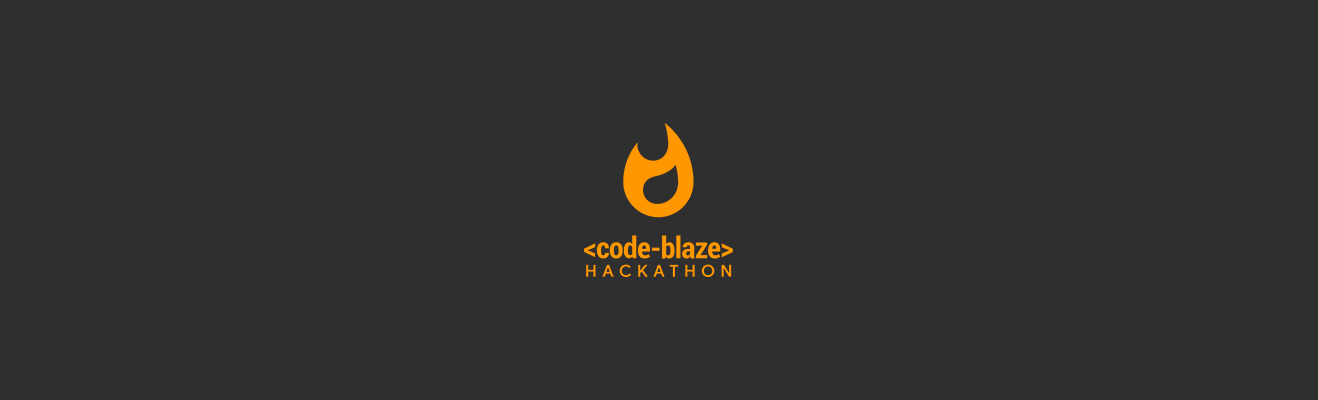
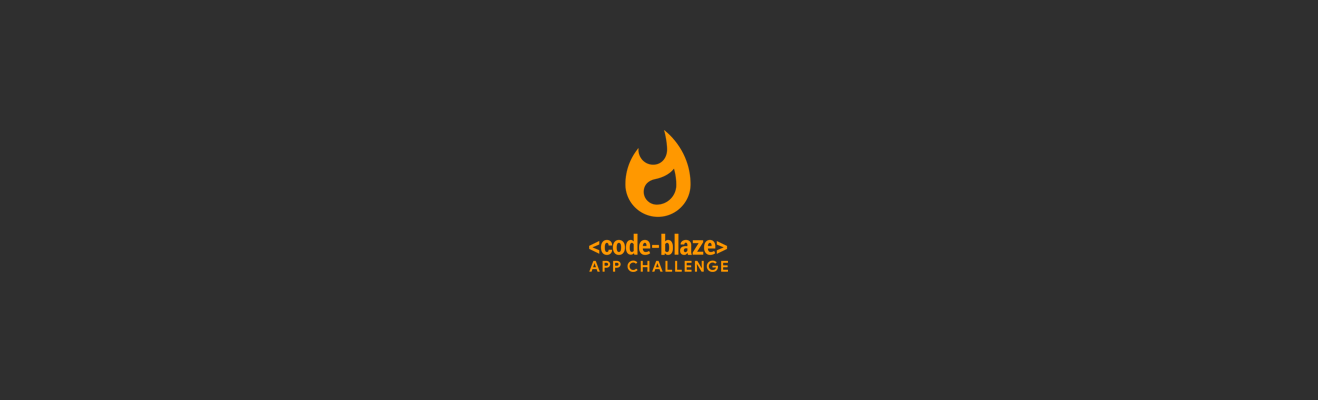
Added next 17 venue and sponsor. Edited codeblaze

Changed region(s): [[0.4355, 0.57, 0.5599, 0.69], [0.4666, 0.33, 0.5288, 0.51]]

diff --git a/public/assets/scripts/build.min.js b/public/assets/scripts/build.min.js
@@ -1,4 +1,4 @@
-jQuery(function(a){Modernizr.touch||debiki.Utterscroll.enable()}),$.fn.disableScroll=function(){window.oldScrollPos=$(window).scrollTop(),$(window).on("scroll.scrolldisabler",function(a){$(window).scrollTop(window.oldScrollPos),a.preventDefault()})},$.fn.enableScroll=function(){$(window).off("scroll.scrolldisabler")};var App={Classes:{},Utility:{},Constant:{},KeyboardListener:{},Route:{},Size:{},Controller:{},ready:function(a){this.Route.call(a),$(window).scroll(function(){$(window).scrollTop()>0?$(".action-bar").addClass("shadow"):$(".action-bar").removeClass("shadow")}),"serviceWorker"in navigator&&navigator.serviceWorker.register("./service-worker.js")},location:function(a,e,i){App.CONTROLLER=a.charAt(0).toUpperCase()+a.slice(1)+"Controller",App.ACTION=e,void 0==i&&(i=[]),App.PARAMETERS=i,window.location="#/"+a+"/"+e+"/"+i.join("/")},refresh:function(){setTimeout(function(){$(".progress").animate({opacity:"0"})},1e3),$("body").enableScroll(),$("body > .blur").hide(),$("html").click(function(a){$(window).outerWidth()<=700&&$(".action-bar ul.nav").hide(),$(a.target).is("i.mdi.mdi-menu")&&$(".action-bar ul.nav").show()}),$(".template").css("padding-top",$(".action-bar").outerHeight()),$(".action-bar i.mdi.mdi-menu").click(function(){$(this).find("+ ul.nav").show()}),$("[data-bulaga]").each(function(){var a=$(this).attr("data-bulaga").split(" "),e={},i={"fade-in":["animation","FADE_IN"],"slide-up":["animation","SLIDE_UP"],"slide-left":["animation","SLIDE_LEFT"],"slide-right":["animation","SLIDE_RIGHT"],"slide-down":["animation","SLIDE_DOWN"],bounce:["bounce",!0],repeat:["repeat",!0]};for(var n in a)i.hasOwnProperty(a[n])&&(e[i[a[n]][0]]=i[a[n]][1]);$(this).bulaga(e)})},getNextEvent:function(){$.ajax({type:"get",crossOrigin:!0,cache:!0,url:"https://api.meetup.com/gdgphilippines/events?callback=?",dataType:"jsonp",data:{headers:{Accept:"application/json;"},timeout:1e4},success:function(a){if(console.log(a),a.data.length>0){var e=a.data[0],i=new Date(e.time);if($("#upcoming").html("<h3>"+e.name+"</h3>"+e.description+'<p><i class="mdi mdi-map-marker" style="margin-right: 12px"></i>'+e.venue.city+", "+e.venue.localized_country_name+'</p><p><i class="mdi mdi-calendar" style="margin-right: 12px"></i>'+i.toDateString()+", "+i.toLocaleTimeString()+'</p><p><i class="mdi mdi-account-multiple" style="margin-right: 12px"></i>'+e.yes_rsvp_count+' attending members</p><p class="right"><a class="button" href="'+e.link+'" target="_blank"><i class="mdi mdi-ticket" style="margin-right: 12px"></i>Apply for a Ticket</a></p>'),a.data.length>1){$("#other_events").show().append('<div class="columns"><div class="col-12"></div></div>');for(var n=!0,t=1;t<a.data.length;t++){i=new Date(a.data[t].time);var o="";n&&(o=' style="margin-top: 0px;"',n=!1),$("#other_events").find(".col-12").append('<div class="card"'+o+'><div class="wrapper"><h3>'+a.data[t].name+"</h3>"+(a.data[t].hasOwnProperty("venue")?'<p><i class="mdi mdi-map-marker" style="margin-right: 12px"></i>'+a.data[t].venue.city+", "+a.data[t].venue.localized_country_name+"</p>":"")+'<p><i class="mdi mdi-calendar" style="margin-right: 12px"></i>'+i.toDateString()+", "+i.toLocaleTimeString()+'</p><p><i class="mdi mdi-account-multiple" style="margin-right: 12px"></i>'+a.data[t].yes_rsvp_count+' attending members</p><p class="right"><a class="button" href="'+a.data[t].link+'" target="_blank"><i class="mdi mdi-ticket" style="margin-right: 12px"></i>Apply for a Ticket</a></p></div></div>')}}}else $("#upcoming").html("<h3>Message</h3><p>No incoming events for now. Add, like, and follow our social media pages to get the latest updates for our upcoming events!</p>")}})},getBlogPosts:function(a){$.ajax({type:"get",crossOrigin:!0,cache:!0,url:"https://www.blogger.com/feeds/1542160289050145778/posts/default/?alt=json-in-script&callback=?",dataType:"jsonp",data:{headers:{Accept:"application/json;"},timeout:1e4},success:function(e){a&&a(e)}})},displaySpeakers:function(){var a=["johnny-benitez","gail-tan","jonathan-joson","sami-kizilbash","mete-atamel","takuo-suzuki","kazunori-sato","albert-padin","yohan-totting","josan-dometita","cristopher-david","elymar-apao","reymart-canuel","toni-jan-keith-monserrat","benj-tupas","claudine-rodriguez","anne-michelle-santos","ambe-tierro","charibeth-cheng","duephil-kaufmann","dexter-santos","allan-tan","brian-tan-seng","karen-matias","kristine-mae-adlaon","jordan-deja","ellaine-de-guzman","goldy-yancha","joem-petilla","luna-cruz","julie-ann-alonzo","mara-ang","stephanie-sy","derrick-alain-mapagu","grace-sojor","valenice-balace","joyce-guiao","tal-de-guzman","micaela-reyes","raymund-vidar","merlin-suarez","warangkana-fajardo","mark-anthony-panizales","ben-adrian-sarmiento","wayne-manuel","gino-tria","jasmin-caronan","mac-valmores","mika-aldaba","vin-lim","vicky-sy","nadine-jamila","patricia-faustino","paul-gadi","adrian-vincent-tayag","howard-go","pamela-cajilig","neil-patrick-del-gallego","alex-alabiso"];for(var e in a)if(Data.speakers.hasOwnProperty(a[e])){var i=Data.speakers[a[e]];$("section[name=speakers] .vertical-scroll .content").append('<div class="item"><img src="assets/images/speakers/'+i.name+'.jpg"><span>'+i.name+"</span><small>"+i.title+"</small></div>")}}};
+jQuery(function(a){Modernizr.touch||debiki.Utterscroll.enable()}),$.fn.disableScroll=function(){window.oldScrollPos=$(window).scrollTop(),$(window).on("scroll.scrolldisabler",function(a){$(window).scrollTop(window.oldScrollPos),a.preventDefault()})},$.fn.enableScroll=function(){$(window).off("scroll.scrolldisabler")};var App={Classes:{},Utility:{},Constant:{},KeyboardListener:{},Route:{},Size:{},Controller:{},ready:function(a){this.Route.call(a),$(window).scroll(function(){$(window).scrollTop()>0?$(".action-bar").addClass("shadow"):$(".action-bar").removeClass("shadow")})},location:function(a,e,i){App.CONTROLLER=a.charAt(0).toUpperCase()+a.slice(1)+"Controller",App.ACTION=e,void 0==i&&(i=[]),App.PARAMETERS=i,window.location="#/"+a+"/"+e+"/"+i.join("/")},refresh:function(){setTimeout(function(){$(".progress").animate({opacity:"0"})},1e3),$("body").enableScroll(),$("body > .blur").hide(),$("html").click(function(a){$(window).outerWidth()<=700&&$(".action-bar ul.nav").hide(),$(a.target).is("i.mdi.mdi-menu")&&$(".action-bar ul.nav").show()}),$(".template").css("padding-top",$(".action-bar").outerHeight()),$(".action-bar i.mdi.mdi-menu").click(function(){$(this).find("+ ul.nav").show()}),$("[data-bulaga]").each(function(){var a=$(this).attr("data-bulaga").split(" "),e={},i={"fade-in":["animation","FADE_IN"],"slide-up":["animation","SLIDE_UP"],"slide-left":["animation","SLIDE_LEFT"],"slide-right":["animation","SLIDE_RIGHT"],"slide-down":["animation","SLIDE_DOWN"],bounce:["bounce",!0],repeat:["repeat",!0]};for(var t in a)i.hasOwnProperty(a[t])&&(e[i[a[t]][0]]=i[a[t]][1]);$(this).bulaga(e)})},getNextEvent:function(){$.ajax({type:"get",crossOrigin:!0,cache:!0,url:"https://hub.gdgx.io/api/v1/chapters/105750470224587854845/events/upcoming?callback=?",dataType:"jsonp",data:{headers:{Accept:"application/json;"},timeout:1e4},success:function(a){console.log(a);if(a.items=function(a,e){a=a.split(".");var i=a.length;return e.sort(function(e,t){for(var n,o=0;o<i;){if(n=a[o],!e.hasOwnProperty(n))return 1;if(!t.hasOwnProperty(n))return-1;e=e[n],t=t[n],o++}return e<t?-1:e>t?1:0}),e}("start",a.items),console.log(a),0==a.items.length)$("#upcoming").html("<h3>Message</h3><p>No incoming events for now. Add, like, and follow our social media pages to get the latest updates for our upcoming events!</p>");else{var e=a.items[0],i=new Date(e.start.substring(0,19)),t=document.createElement("DIV");if(t.innerHTML=e.about,$("#upcoming").html("<h3>"+e.title+"</h3><p>"+(e.hasOwnProperty("about")?t.textContent.split(/\s+/).slice(0,20).join(" ")+"...":"")+'</p><p><i class="mdi mdi-map-marker" style="margin-right: 12px"></i>'+e.location+'</p><p><i class="mdi mdi-calendar" style="margin-right: 12px"></i>'+dateFormat(i,"dddd, mmmm dS, yyyy, h:MM TT")+'</p><p class="right"><a class="button" href="'+e.eventUrl+'" target="_blank"><i class="mdi mdi-ticket" style="margin-right: 12px"></i>Apply for a Ticket</a></p>'),a.items.length>1){$("#other_events").show().append('<div class="columns"><div class="col-12"></div></div>');for(var n=!0,o=1;o<a.items.length;o++){console.log(s);var s=a.items[o];i=new Date(s.start.substring(0,19)),t=s.about;var r="";n&&(r=' style="margin-top: 0px;"',n=!1),$("#other_events").find(".col-12").append('<div class="card"'+r+'><div class="wrapper"><h3>'+s.title+'</h3><p><i class="mdi mdi-map-marker" style="margin-right: 12px"></i>'+s.location+'</p><p><i class="mdi mdi-calendar" style="margin-right: 12px"></i>'+dateFormat(i,"dddd, mmmm dS, yyyy, h:MM TT")+'</p><p class="right"><a class="button" href="'+s.eventUrl+'" target="_blank"><i class="mdi mdi-ticket" style="margin-right: 12px"></i>Apply for a Ticket</a></p></div></div>')}}}}})},getBlogPosts:function(a){$.ajax({type:"get",crossOrigin:!0,cache:!0,url:"https://www.blogger.com/feeds/1542160289050145778/posts/default/?alt=json-in-script&callback=?",dataType:"jsonp",data:{headers:{Accept:"application/json;"},timeout:1e4},success:function(e){a&&a(e)}})},displaySpeakers:function(){var a=["johnny-benitez","gail-tan","jonathan-joson","sami-kizilbash","mete-atamel","takuo-suzuki","kazunori-sato","albert-padin","yohan-totting","josan-dometita","cristopher-david","elymar-apao","reymart-canuel","toni-jan-keith-monserrat","benj-tupas","claudine-rodriguez","anne-michelle-santos","ambe-tierro","charibeth-cheng","duephil-kaufmann","dexter-santos","allan-tan","brian-tan-seng","karen-matias","kristine-mae-adlaon","jordan-deja","ellaine-de-guzman","goldy-yancha","joem-petilla","luna-cruz","julie-ann-alonzo","mara-ang","stephanie-sy","derrick-alain-mapagu","grace-sojor","valenice-balace","joyce-guiao","tal-de-guzman","micaela-reyes","raymund-vidar","merlin-suarez","warangkana-fajardo","mark-anthony-panizales","ben-adrian-sarmiento","wayne-manuel","gino-tria","jasmin-caronan","mac-valmores","mika-aldaba","vin-lim","vicky-sy","nadine-jamila","patricia-faustino","paul-gadi","adrian-vincent-tayag","howard-go","pamela-cajilig","neil-patrick-del-gallego","alex-alabiso"];for(var e in a)if(Data.speakers.hasOwnProperty(a[e])){var i=Data.speakers[a[e]];$("section[name=speakers] .vertical-scroll .content").append('<div class="item"><img src="assets/images/speakers/'+i.name+'.jpg"><span>'+i.name+"</span><small>"+i.title+"</small></div>")}}};
 App.Controller.BeController={construct:function(e){},index:function(e){App.location("home","index",[])},"a-sponsor":function(e){return App.View.setTitle("Become a Sponsor"),App.View.render()},"a-volunteer":function(e){return App.View.setTitle("Become a Volunteer"),App.View.render()}};
 App.Controller.BlogController={construct:function(t){},index:function(t){return App.View.render()},error:function(t){return App.View.render()},view:function(t){App.getBlogPosts(function(e){var n=!1;$.each(e.feed.entry,function(e,r){r.link[4].href.substring(30)==t[0]&&(n={title:r.title.$t,date:dateFormat(r.published.$t.substring(0,19),"dddd, mmmm dS, yyyy, h:MM TT"),content:r.content.$t})}),0==n?App.location("blog","error",[]):App.View.setJson(n),App.View.render()})}};
 App.Controller.CertificatesController={construct:function(e){},generate:function(e){return App.View.render()}};

diff --git a/src/scripts/App.js b/src/scripts/App.js
@@ -37,9 +37,9 @@ $.fn.enableScroll = function() {
 				$(".action-bar").removeClass("shadow");
 			}
 		});
-		if ('serviceWorker' in navigator) {
-			navigator.serviceWorker.register('./service-worker.js');
-		}
+		// if ('serviceWorker' in navigator) {
+		// 	navigator.serviceWorker.register('./service-worker.js');
+		// }
 	},
 	"location": function(controller, action, parameters) {
 		App.CONTROLLER = controller.charAt(0).toUpperCase() + controller.slice(1) + "Controller";
@@ -91,24 +91,61 @@ $.fn.enableScroll = function() {
 			type: "get",
 			crossOrigin: true,
 			cache: true,
-			url: "https://api.meetup.com/gdgphilippines/events?callback=?",
+			url: "https://hub.gdgx.io/api/v1/chapters/105750470224587854845/events/upcoming?callback=?",
 			dataType: 'jsonp',
 			data: { 'headers': { 'Accept': 'application/json;' }, 'timeout': 10000 },
 			success: function(events) {
 				console.log(events);
-				if(events.data.length > 0) {
-					var ne = events.data[0];
-					var datex = new Date(ne.time);
-					$("#upcoming").html('<h3>'+ne.name+'</h3>'+ne.description+
-						'<p><i class="mdi mdi-map-marker" style="margin-right: 12px"></i>'+ne.venue.city+', '+ne.venue.localized_country_name+'</p>'+
-						'<p><i class="mdi mdi-calendar" style="margin-right: 12px"></i>'+datex.toDateString()+', '+datex.toLocaleTimeString()+'</p>'+
-						'<p><i class="mdi mdi-account-multiple" style="margin-right: 12px"></i>'+ne.yes_rsvp_count+' attending members</p>'+
-						'<p class="right"><a class="button" href="'+ne.link+'" target="_blank"><i class="mdi mdi-ticket" style="margin-right: 12px"></i>Apply for a Ticket</a></p>');
-					if(events.data.length > 1) {
+				var sort = function (prop, arr) {
+				    prop = prop.split('.');
+				    var len = prop.length;
+
+				    arr.sort(function (a, b) {
+				        var i = 0;
+				        var key;
+
+				        while( i < len ) {
+				            key = prop[i];
+
+				            if(!a.hasOwnProperty(key)) return 1;
+				            if(!b.hasOwnProperty(key)) return -1;
+
+				            a = a[key];
+				            b = b[key];
+				            i++;
+				        }
+				        if (a < b) {
+				            return -1;
+				        } else if (a > b) {
+				            return 1;
+				        } else {
+				            return 0;
+				        }
+				    });
+				    return arr;
+				}
+				events.items = sort("start", events.items);
+				console.log(events);
+				if(events.items.length == 0)
+					$("#upcoming").html('<h3>Message</h3><p>No incoming events for now. Add, like, and follow our social media pages to get the latest updates for our upcoming events!</p>');
+				else {
+					var nextEvent = events.items[0];
+					var datex = new Date(nextEvent.start.substring(0,19));
+					var tmp = document.createElement("DIV");
+					tmp.innerHTML = nextEvent.about;
+					$("#upcoming").html('<h3>'+nextEvent.title+'</h3>'+
+						'<p>'+((nextEvent.hasOwnProperty("about") ? tmp.textContent.split(/\s+/).slice(0,20).join(" ")+"..." : ''))+'</p>'+
+										'<p><i class="mdi mdi-map-marker" style="margin-right: 12px"></i>'+nextEvent.location+'</p>'+
+										'<p><i class="mdi mdi-calendar" style="margin-right: 12px"></i>'+dateFormat(datex, "dddd, mmmm dS, yyyy, h:MM TT")+'</p>'+
+						'<p class="right"><a class="button" href="'+nextEvent.eventUrl+'" target="_blank"><i class="mdi mdi-ticket" style="margin-right: 12px"></i>Apply for a Ticket</a></p>');
+					if(events.items.length > 1) {
 						$("#other_events").show().append('<div class="columns"><div class="col-12"></div></div>');
 						var first = true;
-						for(var i = 1; i < events.data.length; i++) {
-							datex = new Date(events.data[i].time);
+						for(var i = 1; i < events.items.length; i++) {
+							console.log(event);
+							var event = events.items[i];
+							datex = new Date(event.start.substring(0,19));
+							tmp = event.about;
 							var nomargin = "";
 							if(first) {
 								nomargin = ' style="margin-top: 0px;"';
@@ -116,20 +153,60 @@ $.fn.enableScroll = function() {
 							}
 							$("#other_events").find(".col-12").append('<div class="card"'+nomargin+'>'+
 									'<div class="wrapper">'+
-										'<h3>'+events.data[i].name+'</h3>'+ ((events.data[i].hasOwnProperty("venue")) ? 
-										'<p><i class="mdi mdi-map-marker" style="margin-right: 12px"></i>'+events.data[i].venue.city+', '+events.data[i].venue.localized_country_name+'</p>' : '')+
-										'<p><i class="mdi mdi-calendar" style="margin-right: 12px"></i>'+datex.toDateString()+', '+datex.toLocaleTimeString()+'</p>'+
-										'<p><i class="mdi mdi-account-multiple" style="margin-right: 12px"></i>'+events.data[i].yes_rsvp_count+' attending members</p>'+
-										'<p class="right"><a class="button" href="'+events.data[i].link+'" target="_blank"><i class="mdi mdi-ticket" style="margin-right: 12px"></i>Apply for a Ticket</a></p>'+
+										'<h3>'+event.title+'</h3>'+ 
+										'<p><i class="mdi mdi-map-marker" style="margin-right: 12px"></i>'+event.location+'</p>' +
+										'<p><i class="mdi mdi-calendar" style="margin-right: 12px"></i>'+dateFormat(datex, "dddd, mmmm dS, yyyy, h:MM TT")+'</p>'+
+										'<p class="right"><a class="button" href="'+event.eventUrl+'" target="_blank"><i class="mdi mdi-ticket" style="margin-right: 12px"></i>Apply for a Ticket</a></p>'+
 									'</div>'+
 								'</div>');
 						}
 					}
-				} else {
-					$("#upcoming").html('<h3>Message</h3><p>No incoming events for now. Add, like, and follow our social media pages to get the latest updates for our upcoming events!</p>');	
 				}
 			}
 		});
+		// $.ajax({
+		// 	type: "get",
+		// 	crossOrigin: true,
+		// 	cache: true,
+		// 	url: "https://api.meetup.com/gdgphilippines/events?callback=?",
+		// 	dataType: 'jsonp',
+		// 	data: { 'headers': { 'Accept': 'application/json;' }, 'timeout': 10000 },
+		// 	success: function(events) {
+		// 		console.log(events);
+		// 		if(events.data.length > 0) {
+		// 			var ne = events.data[0];
+		// 			var datex = new Date(ne.time);
+		// 			$("#upcoming").html('<h3>'+ne.name+'</h3>'+ne.description+
+		// 				'<p><i class="mdi mdi-map-marker" style="margin-right: 12px"></i>'+ne.venue.city+', '+ne.venue.localized_country_name+'</p>'+
+		// 				'<p><i class="mdi mdi-calendar" style="margin-right: 12px"></i>'+datex.toDateString()+', '+datex.toLocaleTimeString()+'</p>'+
+		// 				'<p><i class="mdi mdi-account-multiple" style="margin-right: 12px"></i>'+ne.yes_rsvp_count+' attending members</p>'+
+		// 				'<p class="right"><a class="button" href="'+ne.link+'" target="_blank"><i class="mdi mdi-ticket" style="margin-right: 12px"></i>Apply for a Ticket</a></p>');
+		// 			if(events.data.length > 1) {
+		// 				$("#other_events").show().append('<div class="columns"><div class="col-12"></div></div>');
+		// 				var first = true;
+		// 				for(var i = 1; i < events.data.length; i++) {
+		// 					datex = new Date(events.data[i].time);
+		// 					var nomargin = "";
+		// 					if(first) {
+		// 						nomargin = ' style="margin-top: 0px;"';
+		// 						first = false;
+		// 					}
+		// 					$("#other_events").find(".col-12").append('<div class="card"'+nomargin+'>'+
+		// 							'<div class="wrapper">'+
+		// 								'<h3>'+events.data[i].name+'</h3>'+ ((events.data[i].hasOwnProperty("venue")) ? 
+		// 								'<p><i class="mdi mdi-map-marker" style="margin-right: 12px"></i>'+events.data[i].venue.city+', '+events.data[i].venue.localized_country_name+'</p>' : '')+
+		// 								'<p><i class="mdi mdi-calendar" style="margin-right: 12px"></i>'+datex.toDateString()+', '+datex.toLocaleTimeString()+'</p>'+
+		// 								'<p><i class="mdi mdi-account-multiple" style="margin-right: 12px"></i>'+events.data[i].yes_rsvp_count+' attending members</p>'+
+		// 								'<p class="right"><a class="button" href="'+events.data[i].link+'" target="_blank"><i class="mdi mdi-ticket" style="margin-right: 12px"></i>Apply for a Ticket</a></p>'+
+		// 							'</div>'+
+		// 						'</div>');
+		// 				}
+		// 			}
+		// 		} else {
+		// 			$("#upcoming").html('<h3>Message</h3><p>No incoming events for now. Add, like, and follow our social media pages to get the latest updates for our upcoming events!</p>');	
+		// 		}
+		// 	}
+		// });
 	},
 	getBlogPosts: function(c) {
 		$.ajax({

diff --git a/public/views/events/next17.html b/public/views/events/next17.html
@@ -20,9 +20,8 @@
 										<tr valign="top">
 											<td width="1px"><i class="mdi mdi-map-marker"></i></td>
 											<td>
-												<i>TBA</i><br>
-												<a href="mailto:gdgphilippines@gmail.com" class="button"><i class="mdi mdi-heart"></i>Be our venue partner</a>
-												<!-- <br><small></small> -->
+												<a href="https://www.google.com.ph/maps/place/Globe+Telepark-Valero/@14.5582575,121.0156595,17z/data=!4m5!3m4!1s0x3397c9092398b91b:0x5686e6b2b244ae2e!8m2!3d14.5596386!4d121.0186636?hl=en" class="blue-text" target="_blank">Globe Telepark - Valero</a><br>
+												<small>Valero Street, Makati, Metro Manila</small>
 											</td>
 										</tr>
 										<tr valign="top">
@@ -34,13 +33,16 @@
 									</table>
 								</div>
 							</div>
-							<div class="card">
-								<div class="wrapper">
-									<h3>Be a sponsor</h3>
-									<p>Google Developer Group Philippines is a non-profit organization composed of volunteers. Support us and be part of Google Cloud Next 17 Extended Manila</p>
-									<a href="#/be/a-sponsor" class="button"><i class="mdi mdi-heart"></i>Support us</a>
-								</div>
-							</div>
+						</div>
+					</div>
+					<div class="col-6 offset-3 t-col-12 t-offset-0 center">
+						<div class="wrapper">
+							<br>
+							<h1>Be a Sponsor</h1><br>
+							<p>Made Possible By</p>
+							<img src="assets/images/sponsors/google.png" width="150px">
+							<p><br><br><br>Google Developer Group Philippines is a non-profit organization composed of volunteers. Support us and be part of Google Cloud Next 17 Extended Manila</p>
+							<a href="#/be/a-sponsor" class="button"><i class="mdi mdi-heart"></i>Support us</a>
 						</div>
 					</div>
 				</div>

diff --git a/public/views/events/codeblaze.html b/public/views/events/codeblaze.html
@@ -7,7 +7,7 @@
 					<div class="col-12">
 						<div class="wrapper">
 							<div class="columns">
-								<div class="col-8 t-col-12"><h1 style="margin: 0">CodeBlaze Hackathon 2017</h1></div>
+								<div class="col-8 t-col-12"><h1 style="margin: 0">CodeBlaze App Challenge 2017</h1></div>
 								<div class="col-4 t-col-12 right">
 									<a href="https://docs.google.com/forms/d/e/1FAIpQLSdrmALoT6TyIXTijJs3v3WLiuoU8F1QXbR6-W37vQIpw3Npzw/viewform" class="button" target="_blank"><i class="mdi mdi-ticket"></i>Register My Team</a>
 								</div>
